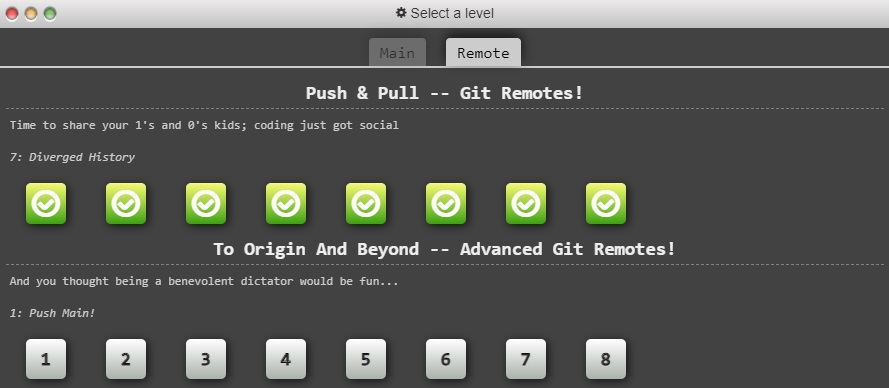
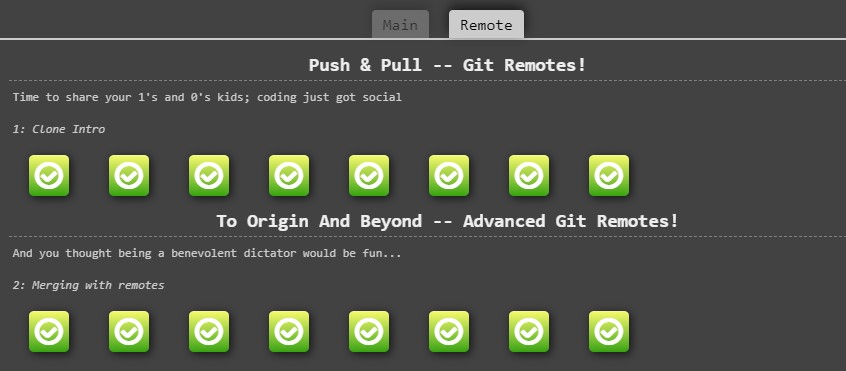
Lecture 2, git homework, finished

Changed region(s): [[0.0, 0.3854, 0.7991, 1.0], [0.0, 0.0, 1.0, 0.3558]]

diff --git a/Module#02/learngitbranching.md b/Module#02/learngitbranching.md
@@ -1,7 +1,5 @@
 # List of git commands required to fulfill tasks on learngitbranching.js.org
 
-**Note: This document is still a work in progress.**
-
 ![Main](Main.jpg)
 
 ![Remote](Remote.jpg)
@@ -148,21 +146,49 @@
 ## To Origin And Beyond -- Advanced Git Remotes!
 
 ### Push Main!
+- `git fetch`
+- `git rebase o/main side1`
+- `git rebase side1 side2`
+- `git rebase side2 side3`
+- `git rebase side3 main`
+- `git push`
 
 ### Merging with remotes
+- `git checkout main`
+- `git pull`
+- `git merge side1`
+- `git merge side2`
+- `git merge side3`
+- `git push`
 
 ### Remote Tracking
+- `git checkout -b side o/main`
+- `git commit`
+- `git fetch`
+- `git rebase o/main`
+- `git push`
 
 ### Git push arguments
+- `git push origin main`
+- `git push origin foo`
 
 ### Git push arguments -- Expanded!
+- `git push origin main^:foo`
+- `git push origin foo:main`
 
 ### Fetch arguments
+- `git fetch origin main^:foo`
+- `git fetch origin foo:main`
+- `git checkout foo`
+- `git merge main`
 
 ### Source of nothing
+- `git push origin :foo`
+- `git fetch origin :bar`
 
 ### Pull arguments
+- `git pull origin bar:foo`
+- `git pull origin main:side`
 
 ## Additional Information
 - I used ChatGPT 4 to add Markup language code. The commands and overall logic is my own.
-- The list is not complete and requires additional work.
